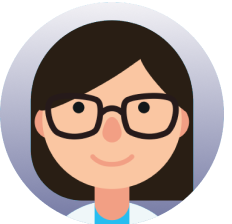
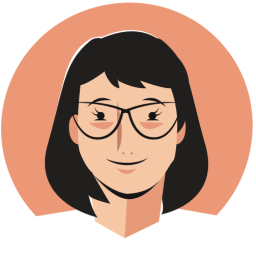
feat: implement baseline of new branding

diff --git a/src/components/header.tsx b/src/components/header.tsx
@@ -3,7 +3,7 @@ import { Link } from 'react-router-dom'
 import styled from 'styled-components/macro'
 import { overrides } from 'services/overrides'
 
-import LogoImage from 'images/dialogue-logo.svg'
+import LogoImage from 'images/dialogue-logo.png'
 import LanguagePicker from './language-picker'
 import Title from './title'
 import RegionPicker from 'components/region-picker'
@@ -27,7 +27,7 @@ const LogoContainer = styled.div<LogoContainerProps>`
   z-index: 1000002;
   top: 0;
   left: 0;
-  background-color: ${props => props.theme.colors.primaryLight};
+  background-color: ${props => props.theme.colors.secondary};
   padding: 24px 42px 21px 18px;
   border-bottom-right-radius: 100px;
   flex-basis: 0;

diff --git a/src/theme.ts b/src/theme.ts
@@ -1,13 +1,15 @@
 import 'styled-components'
 import { overrides } from 'services/overrides'
 
+//212020
+
 const colors = {
-  primary: '#0097F3',
-  primaryLight: '#E5F4FD',
-  secondary: '#534E71',
-  secondaryLight: '#7378A3',
-  text: '#534E71',
-  textLight: '#FFFFFF',
+  primary: '#212020',
+  primaryLight: '#212020',
+  secondary: '#ED9877',
+  secondaryLight: '#ED9877',
+  text: '#212020',
+  textLight: '#212020',
   disabled: '#EAEDEE',
   background: '#FAFAFB',
   backgroundLight: '#FFFFFF',

diff --git a/src/components/footer.tsx b/src/components/footer.tsx
@@ -8,7 +8,7 @@ import { mobileBreakpoint } from 'theme'
 
 const FooterContainer = styled.div`
   background-color: ${props => props.theme.colors.backgroundLight};
-  border-top: 1px solid ${props => props.theme.colors.primaryLight};
+  border-top: 1px solid rgba(0, 0, 0, 0.2);
   color: ${props => props.theme.colors.text};
   width: 100%;
 `

diff --git a/src/components/markdown.tsx b/src/components/markdown.tsx
@@ -31,8 +31,9 @@ export const Markdown = styled(MarkdownContainer)`
   }
 
   a {
-    color: ${props => props.theme.colors.primary};
-    text-decoration: none;
+    color: ${props => props.theme.colors.secondary};
+    text-decoration: underline;
+    font-weight: bold;
   }
 
   hr {
